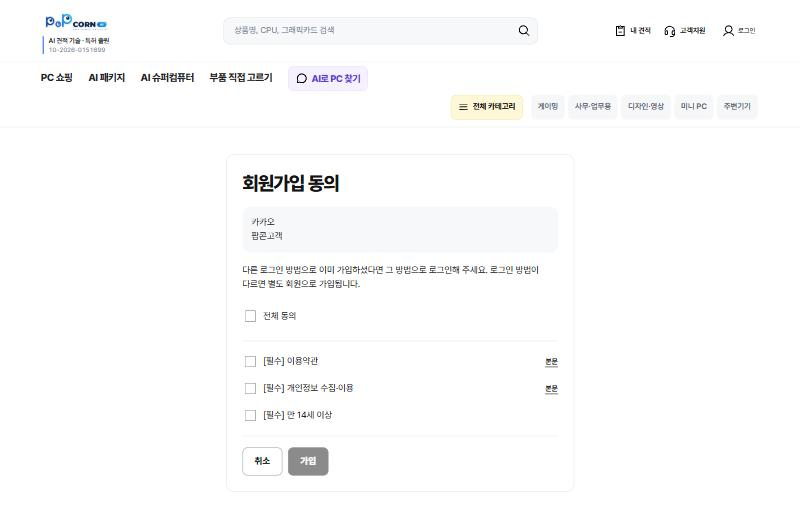
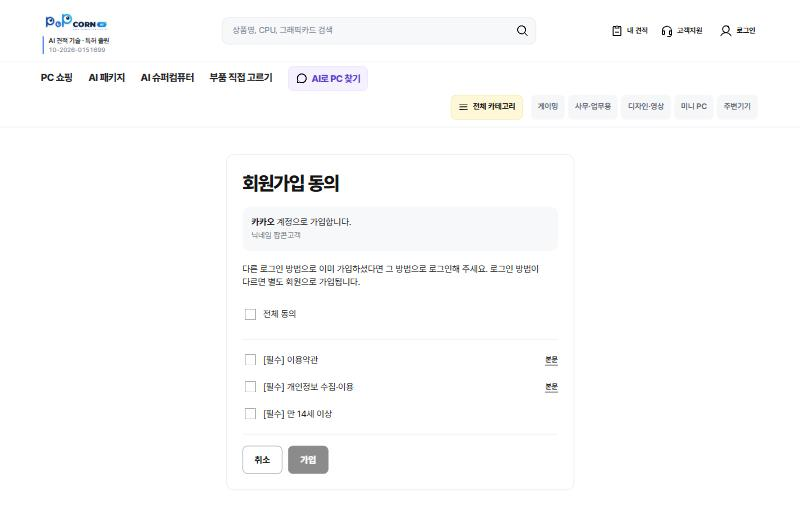
fix(mvp4): 간편로그인 화면 - 사장님 승인 수정 4가지 (2026-11-17)
1. 상단바의 로그인·닉네임 글자를 옆 항목(내 견적·고객지원)과 같은 크기·굵기로
2. 회원 탈퇴를 로그아웃과 같은 단추가 아니라 작은 글자 링크로
3. 가입 동의 화면의 공급자 표시를 「카카오 계정으로 가입합니다.」 한 문장으로
4. 탈퇴 완료를 브라우저 기본 알림창 대신 화면 안 안내로

캡처 03·04·05 를 바꾸고 09(탈퇴 완료)를 더했다. 01·02·06·07·08 은 바뀌지 않았다.

diff --git a/mockups/mvp4/assets/js/join.js b/mockups/mvp4/assets/js/join.js
@@ -21,7 +21,7 @@
         return api.request('/api/auth/join/pending').then(function (pending) {
           if (required.some(function (key) { return !Array.isArray(pending.required) || pending.required.indexOf(key) < 0; })) { unavailable(false); return; }
           var names = { kakao: '카카오', naver: '네이버', google: 'Google' };
-          root.innerHTML = '<h1 class="section-title">회원가입 동의</h1><div class="auth-identity"><p>' + P.h(names[pending.provider] || '') + '</p><p>' + P.h(pending.nickname || '회원') + '</p></div><p>다른 로그인 방법으로 이미 가입하셨다면 그 방법으로 로그인해 주세요. 로그인 방법이 다르면 별도 회원으로 가입됩니다.</p><form class="stack" data-join-form><label class="auth-check"><input type="checkbox" data-all> 전체 동의</label><div class="auth-consents"><label class="auth-check"><input type="checkbox" name="terms"> [필수] 이용약관 <a class="text-link" href="terms.html" target="_blank" rel="noopener">본문</a></label><label class="auth-check"><input type="checkbox" name="privacy"> [필수] 개인정보 수집·이용 <a class="text-link" href="privacy.html" target="_blank" rel="noopener">본문</a></label><label class="auth-check"><input type="checkbox" name="age14"> [필수] 만 14세 이상</label></div><p class="error" role="alert" hidden></p><div class="button-row"><a class="btn btn-outline" href="/mvp4/">취소</a><button class="btn btn-primary" type="submit" disabled>가입</button></div></form>';
+          root.innerHTML = '<h1 class="section-title">회원가입 동의</h1><div class="auth-identity"><p>' + (names[pending.provider] ? '<strong>' + P.h(names[pending.provider]) + '</strong> 계정으로 가입합니다.' : '간편로그인 계정으로 가입합니다.') + '</p><p class="auth-nickname">닉네임 ' + P.h(pending.nickname || '회원') + '</p></div><p>다른 로그인 방법으로 이미 가입하셨다면 그 방법으로 로그인해 주세요. 로그인 방법이 다르면 별도 회원으로 가입됩니다.</p><form class="stack" data-join-form><label class="auth-check"><input type="checkbox" data-all> 전체 동의</label><div class="auth-consents"><label class="auth-check"><input type="checkbox" name="terms"> [필수] 이용약관 <a class="text-link" href="terms.html" target="_blank" rel="noopener">본문</a></label><label class="auth-check"><input type="checkbox" name="privacy"> [필수] 개인정보 수집·이용 <a class="text-link" href="privacy.html" target="_blank" rel="noopener">본문</a></label><label class="auth-check"><input type="checkbox" name="age14"> [필수] 만 14세 이상</label></div><p class="error" role="alert" hidden></p><div class="button-row"><a class="btn btn-outline" href="/mvp4/">취소</a><button class="btn btn-primary" type="submit" disabled>가입</button></div></form>';
           var form = root.querySelector('form'), all = form.querySelector('[data-all]'), submit = form.querySelector('[type=submit]'), notice = form.querySelector('.error'), busy = false;
           function sync() {
             var count = required.filter(function (key) { return form.elements[key].checked; }).length;

diff --git a/mockups/mvp4/assets/css/auth-ui.css b/mockups/mvp4/assets/css/auth-ui.css
@@ -1,4 +1,4 @@
 /* Provider colors are brand requirements; other styles use the existing palette. */
 .auth-dialog{width:min(460px,calc(100% - 32px))}.auth-providers{display:grid;gap:12px}.auth-provider{width:100%;position:relative;min-height:48px}.auth-provider img{width:20px;height:20px;position:absolute;left:18px}.auth-kakao{background:#fee500;color:#191919}.auth-naver{background:#03c75a;color:#fff}.auth-google{background:var(--surface);color:var(--ink);border-color:var(--line)}.auth-policy{font-size:13px;color:var(--muted)}.auth-check{display:flex;align-items:center;gap:10px;min-height:48px}.auth-check input{width:20px;height:20px;flex-shrink:0;accent-color:var(--ink)}.auth-menu-entry{margin-top:16px}.auth-entry{flex:0 0 36px;width:36px;padding:7px}.auth-join{max-width:620px;margin:48px auto;padding:28px;border:1px solid var(--line);border-radius:var(--radius);background:var(--surface)}.auth-consents{border-block:1px solid var(--line);padding-block:12px}.auth-consents .text-link{font-size:13px;margin-left:auto}.auth-identity{padding:16px;background:var(--soft);border-radius:var(--radius)}
-.auth-entry{width:auto;flex-basis:auto;gap:4px}.auth-entry-label{max-width:72px;overflow:hidden;text-overflow:ellipsis;white-space:nowrap;font-size:12px}
+.auth-entry{width:auto;flex-basis:auto;gap:7px}.auth-entry-label{max-width:96px;overflow:hidden;text-overflow:ellipsis;white-space:nowrap;font-size:13px;font-weight:650}.auth-leave{align-self:flex-start;padding:0;border:0;background:none;font:inherit;font-size:13px;color:var(--muted);text-decoration:underline;cursor:pointer}.auth-nickname{font-size:14px;color:var(--muted)}
 @media(max-width:900px){.nh-tools:has(.auth-entry){gap:4px}.auth-entry{width:30px;flex-basis:30px;padding:4px}.auth-entry-label{position:absolute;width:1px;height:1px;overflow:hidden;clip-path:inset(50%)}.auth-join{margin:24px auto;padding:20px}.auth-check{font-size:14px}}

diff --git a/mockups/mvp4/assets/js/auth-ui.js b/mockups/mvp4/assets/js/auth-ui.js
@@ -88,7 +88,10 @@
       if (busy || !box.checked) return; busy = true; submit.disabled = true; notice.hidden = true;
       request('/api/auth/withdraw', {}).then(function (data) {
         if (data.ok !== true) throw new Error('withdraw');
-        window.alert('탈퇴했습니다.'); window.location.href = '/mvp4/';
+        var done = dialog('회원 탈퇴', '<p role="status">탈퇴했습니다.</p><div class="button-row"><button type="button" class="btn btn-primary" data-home>확인</button></div>', null);
+        var home = function () { window.location.href = '/mvp4/'; };
+        done.querySelector('[data-home]').onclick = home;
+        done.addEventListener('close', home);
       }).catch(function (e) {
         if (e.status === 401) { window.location.reload(); return; }
         notice.textContent = '탈퇴를 처리하지 못했습니다. 고객지원으로 문의해 주세요.'; notice.hidden = false;
@@ -97,7 +100,7 @@
   }
   function account(trigger) {
     if (!state.me.authenticated) { login(trigger); return; }
-    var d = dialog(P.h(state.me.member && state.me.member.nickname || '회원'), '<div class="button-row"><button class="btn btn-outline" data-signout>로그아웃</button><button class="btn btn-outline" data-leave>회원 탈퇴</button></div><p class="error" role="alert" hidden></p>', trigger);
+    var d = dialog(P.h(state.me.member && state.me.member.nickname || '회원'), '<div class="button-row"><button type="button" class="btn btn-outline" data-signout>로그아웃</button></div><p class="error" role="alert" hidden></p><button type="button" class="auth-leave" data-leave>회원 탈퇴</button>', trigger);
     d.querySelector('[data-leave]').onclick = function () { withdraw(trigger); };
     var b = d.querySelector('[data-signout]');
     b.onclick = function () {
